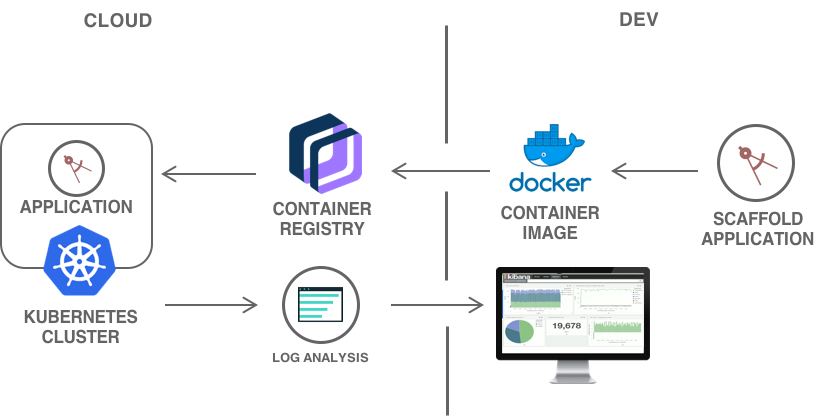
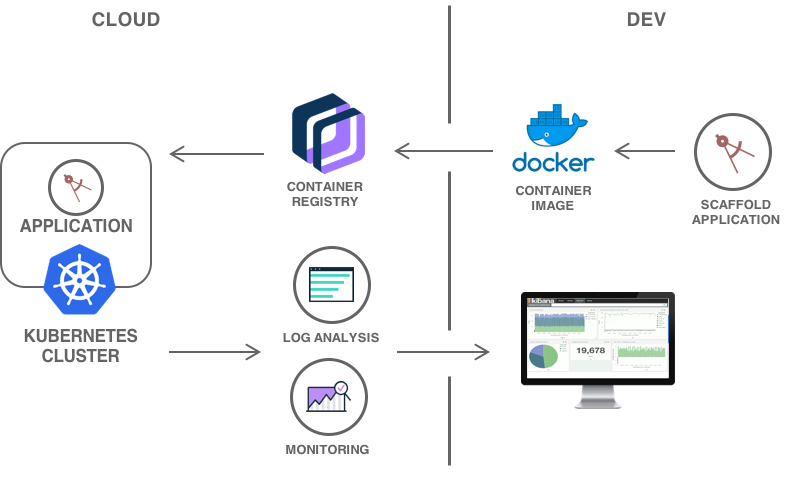
add Monitoring to solution 17

diff --git a/kubernetes-log-analysis-kibana.md b/kubernetes-log-analysis-kibana.md
@@ -14,17 +14,20 @@ lastupdated: "2018-01-10"
 {:pre: .pre}
 
 
-# Analyze Kubernetes cluster and application logs in Kibana
+# Analyze Logs and Monitor the health of Kubernetes applications
 
-This tutorial walks you through creating a cluster, configuring the cluster to send logs to the {site.data.keyword.loganalysisshort}} service, deploying an application to the cluster and then using Kibana to view and analyze logs.
+This tutorial walks you through creating a cluster and configuring the Log Analysis and the Monitoring service. Then, you will deploy an application to the cluster, use Kibana to view and analyze logs, and use Grafana to view health and metrics.
 {:shortdesc}
 
 ## Objectives:
 
 * Create a Kubernetes cluster.
-* Provision the {{site.data.keyword.loganalysisshort}} service.
+* Provision the Log Analysis service.
 * Create logging configurations in the cluster.
+* Provision the Monitoring service
+* Deploy application
 * View, search and analyze logs in Kibana
+* View metrics in Grafana
 
 ![](images/solution17/Architecture.png)
 
@@ -92,6 +95,11 @@ When an application is deployed, logs are collected automatically by the {{site.
     * *mycluster* is the name of your cluster.
     * *IngestionHost* is the hostname to the logging service in the region where the {{site.data.keyword.loganalysisshort}} service is provisioned. For a list of endpoints, see [Endpoints](/docs/services/CloudLogAnalysis/log_ingestion.html#log_ingestion_urls).
     * *OrgName* and *SpaceName* is the location where the {{site.data.keyword.loganalysisshort}} service is provisioned.
+
+## Create the Monitoring service
+
+1. From the IBM Cloud Dashboard, select the **region**, **org** and **space** where you want to create your **Monitoring** service.
+2. From the [Catalog](https://console.bluemix.net/catalog/), select and create a [**Monitoring**](https://console.bluemix.net/catalog/services/monitoring?taxonomyNavigation=apps) service. If you're unable to create the service, check for an existing instance of the Log Analysis service in your space.
 
 ## Create a starter application
 {: #create_application}
@@ -199,7 +207,27 @@ The IBM Cloud has a Container Registry that is private to you. Let's push the Do
 
 The application generates some log data every time you visit its URL. Because of our logging configuration, this data should be forwarded to Log Analysis service and available via Kibana.
 
-From the IBM Cloud **Dashboard**, select your **Log Analysis** instance and click **Launch**.
+1. Open a web browser and launch Kibana using the URL in the table below.
+  <table>
+  <caption>Table 1. URLs to launch Kibana per region</caption>
+  <tr>
+  <th>Region</th>
+  <th>URL</th>
+  </tr>
+  <tr>
+  <td>Germany</td>
+  <td>[https://logging.eu-de.bluemix.net](https://logging.eu-de.bluemix.net) </td>
+  </tr>
+  <tr>
+  <td>United Kingdom</td>
+  <td>[https://logmet.eu-gb.bluemix.net](https://logmet.eu-gb.bluemix.net)</td>
+  </tr>
+  <tr>
+  <td>US South</td>
+  <td>[https://logging.ng.bluemix.net](https://logging.ng.bluemix.net) </td>
+  </tr>
+  </table>
+2. Click on your username in the upper right corner to select the correct **account**, **org** and **space**.
 
 ![](images/solution17/kibana_home.png)
 For more information about other search fields that are relevant to Kubernetes clusters, see [Searching logs](/docs/services/CloudLogAnalysis/containers/containers_kubernetes.html#log_search).
@@ -250,6 +278,19 @@ Once you have added visualizations, they can be used to compose a dashboard. A d
 3. Click on the arrow in the lower left corner of a component to view changes to a table layout and additional information about the underlying request, response and execution statistics are offered.
   ![](images/solution12/DashboardTable.png)   
 4. Save the dashboard for future use.
+
+## Monitor cluster health using Grafana
+Metrics from the Kubernetes cluster are automatically forwarded to the Monitoring service and are made available to you with Grafana. Grafana is an open source software for time series analytics.
+
+1. Using the IBM Cloud [Dashboard](https://console.bluemix.net/dashboard/apps) find and select your **Monitoring** instance.
+2. Click **Launch** to open up Grafana.
+3. In the top right corner, click on your username and choose **Domain**: **account** and select your **Account**.
+4. Click on **Home** and select the **ClusterMonitoringDashboard_workers** dashboard that has been pre-defined.
+5. Enter the region value (`bx cs regions` to see all regions) where your cluster was created next to **Region** and then enter your cluster name next to **Cluster**.
+   ![](images/solution17/grafana_region_cluster.png)
+6. In a different window, visit your application URL and refresh the page several times to generate some load.
+7. Refresh your Grafana dashboard to see the updated metrics.
+   ![](images/solution17/grafana.png)
 
 ## Expand the Tutorial
 Do you want to learn more? Here are some ideas of what you can do next:

diff --git a/index.md b/index.md
@@ -1,7 +1,7 @@
 ---
 copyright:
   years: 2017, 2018
-lastupdated: "2018-01-23"
+lastupdated: "2018-01-24"
 
 ---
 
@@ -249,15 +249,16 @@ Learn how to build, deploy and scale real-world solutions on IBM Cloud. These gu
     </div>
     <div class = "solutionBox">
         <h3 id="kubernetes-log-analysis-kibana.html" class="solutionBoxTitle">
-            <a href = "kubernetes-log-analysis-kibana.html">Generate, Access and Analyze Kubernetes Application Logs</a>
+            <a href = "kubernetes-log-analysis-kibana.html">Analyze Logs and Monitor the health of Kubernetes applications</a>
         </h3>
         <div class="solutionBoxDescription">
             <div class="descriptionContainer">
-                <p>This tutorial walks you through creating a cluster, configuring the cluster to send logs to the {site.data.keyword.loganalysisshort}} service, deploying an application to the cluster and then using Kibana to view and analyze logs.</p>
+                <p>This tutorial walks you through creating a cluster and configuring the Log Analysis and the Monitoring service. Then, you will deploy an application to the cluster, use Kibana to view and analyze logs, and use Grafana to view health and metrics.</p>
                     <span class="tag-filter category">Kubernetes</span>
                     <span class="tag-filter category">Docker</span>
                     <span class="tag-filter category">Node.js</span>
                     <span class="tag-filter category">Log Analysis</span>
+                    <span class="tag-filter category">Monitoring</span>
             </div>
             <div class="architectureDiagramContainer">
                 <img class="architectureDiagram" src = "images/solution17/Architecture.png" />
